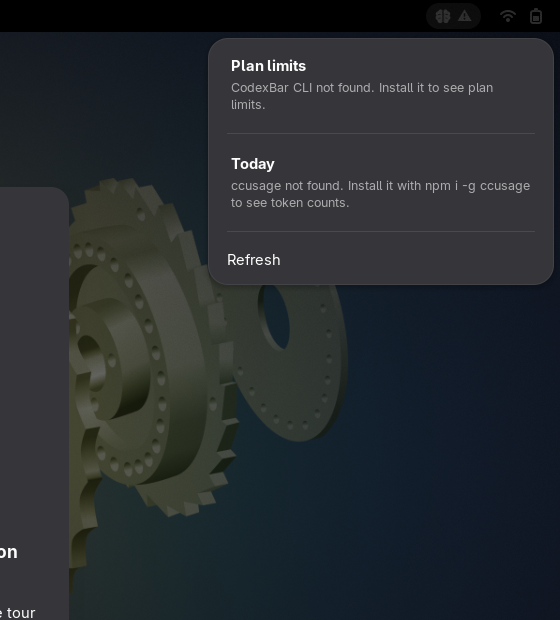
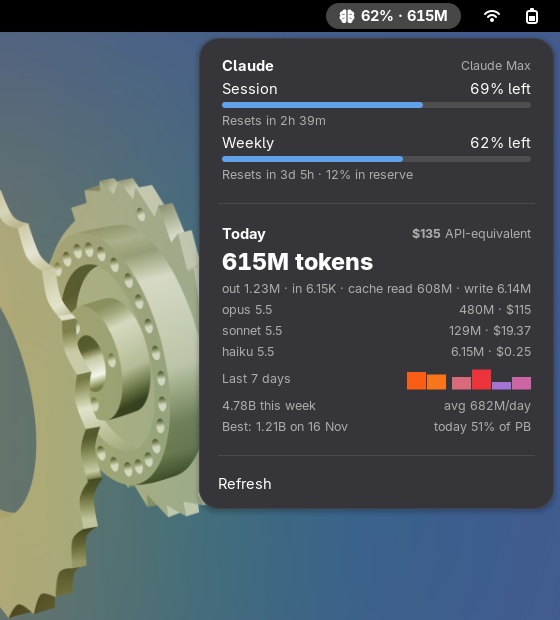
Test tooling: suppress welcome dialog, longer settle time; refresh screenshot
Claude-Session: https://claude.ai/code/session_01F8aCDU5xhQwRwHnrDdyrkz

diff --git a/tools/headroom-shot@local/extension.js b/tools/headroom-shot@local/extension.js
@@ -19,9 +19,9 @@ export default class extends Extension {
     enable() {
         (async () => {
             try {
-                await wait(12000);
+                await wait(9000);
                 Main.overview.hide();
-                await wait(800);
+                await wait(2500);
                 const tb = Main.panel.statusArea['headroom@jasperblues.github.io'];
                 console.log(`HRSHOT indicator=${!!tb}`);
                 await shot('panel');
